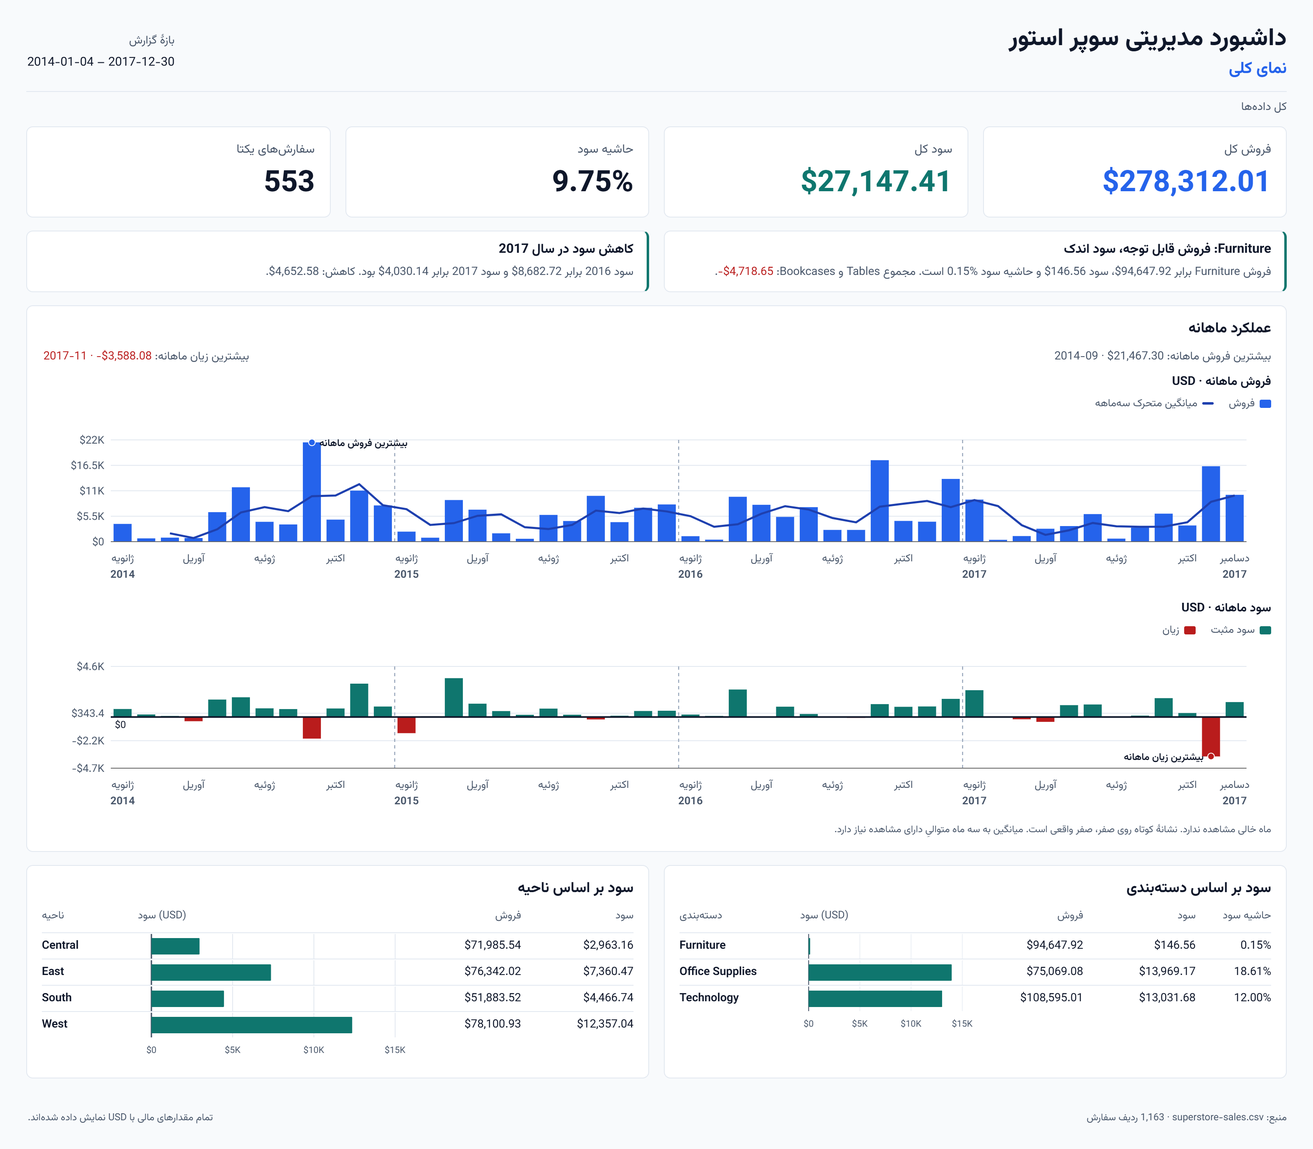
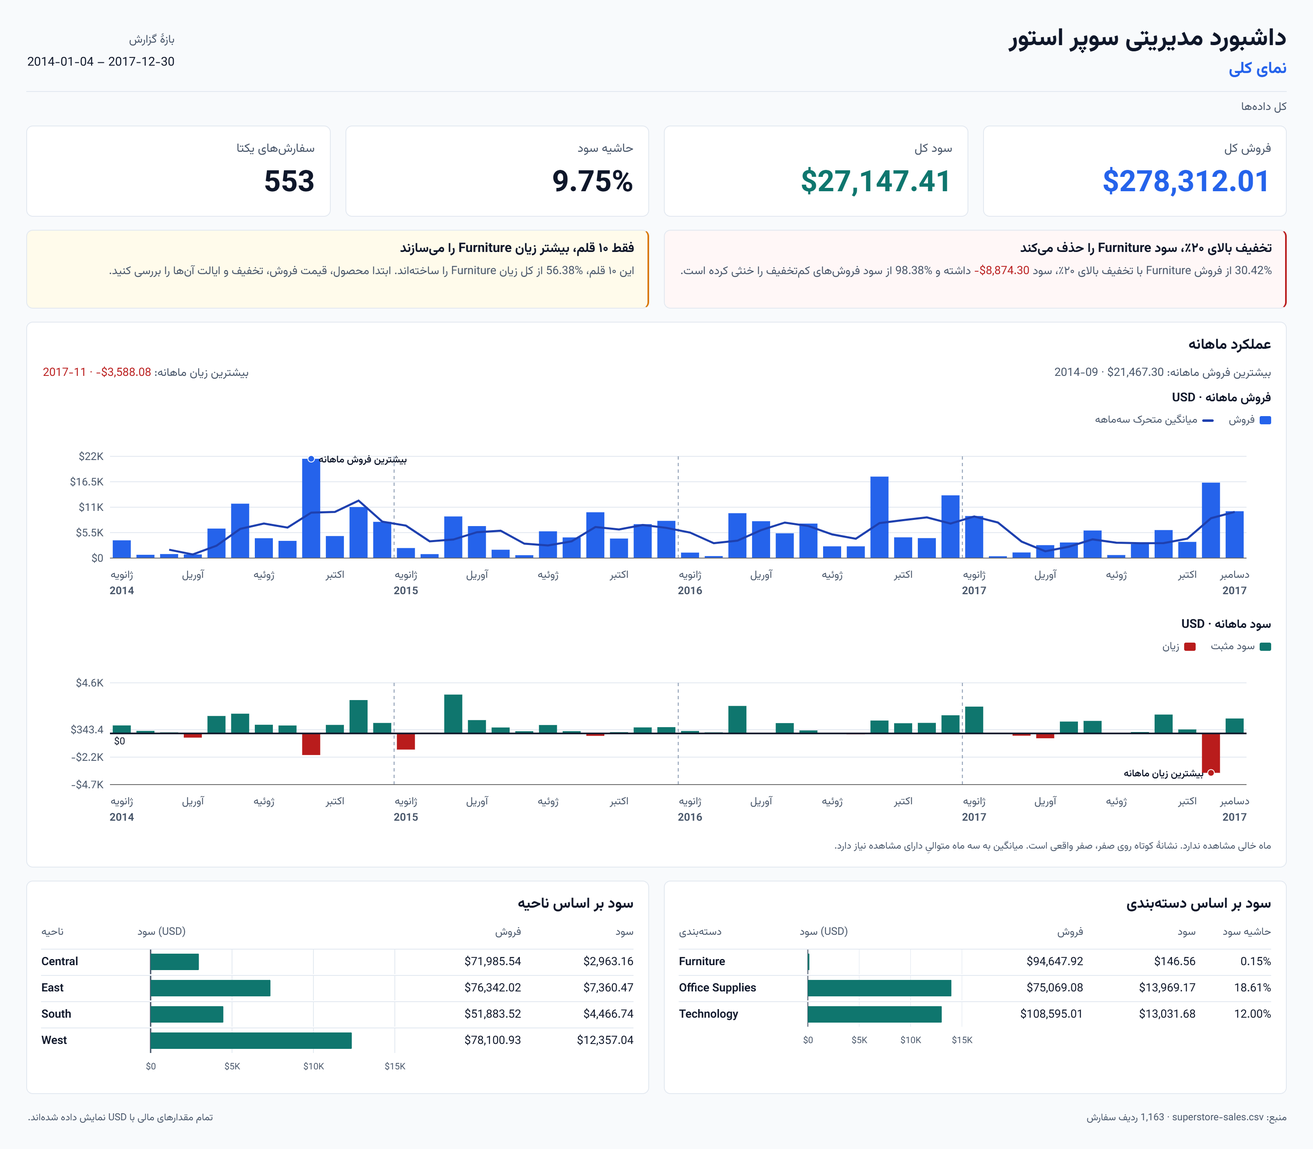
Refine profitability findings and reports

diff --git a/frontend/src/components/dashboard.tsx b/frontend/src/components/dashboard.tsx
@@ -10,7 +10,7 @@ import { resolveMonthlyObservations, type MonthlyObservation } from "@/lib/month
 import { Filters } from "./filters";
 import { Numeric } from "./charts";
 import { Reports } from "./reports";
-import { Geography, Overview, Products, Profitability, type AnnualComparison, type ViewId } from "./views";
+import { Geography, Overview, Products, Profitability, type ViewId } from "./views";
 
 export function Dashboard() {
   const [language,setLanguage]=useState<Language>("fa");
@@ -18,9 +18,7 @@ export function Dashboard() {
   const [metadata,setMetadata]=useState<MetadataResponse|null>(null);
   const [data,setData]=useState<DashboardResponse|null>(null);
   const [draft,setDraft]=useState<DashboardFilters>(freshFilters);
-  const [annual,setAnnual]=useState<AnnualComparison|null>(null);
   const [monthly,setMonthly]=useState<MonthlyObservation[]>([]);
-  const [annualError,setAnnualError]=useState(false);
   const [loading,setLoading]=useState(true);
   const [error,setError]=useState<string|null>(null);
   const [connectionError,setConnectionError]=useState(false);
@@ -47,7 +45,7 @@ export function Dashboard() {
     controller.current?.abort();
     const abort=new AbortController(); controller.current=abort;
     const version=++generation.current;
-    setLoading(true);setError(null);setAnnualError(false);setImages([]);
+    setLoading(true);setError(null);setImages([]);
     objectUrls.current.forEach(url=>URL.revokeObjectURL(url));objectUrls.current=[];
     try {
       if(initial) {
@@ -57,22 +55,9 @@ export function Dashboard() {
       }
       const result=await request(filters,abort.signal);
       const observedMonths=await resolveMonthlyObservations(result,abort.signal,request);
-      let comparison:AnnualComparison|null=null;
-      if(isBaseline(filters)) {
-        try {
-          const [previous,current]=await Promise.all([
-            request({...freshFilters(),years:[2016]},abort.signal),
-            request({...freshFilters(),years:[2017]},abort.signal),
-          ]);
-          comparison={previous:previous.kpis.total_profit,current:current.kpis.total_profit};
-        } catch {
-          if(abort.signal.aborted) return;
-          setAnnualError(true);
-        }
-      }
       // پاسخ قبلی نمیتواند نتیجهٔ یک انتخاب جدید را روی صفحه بازنویسی کند.
       if(version!==generation.current || abort.signal.aborted) return;
-      setData(result);setMonthly(observedMonths);setAnnual(comparison);setConnectionError(false);
+      setData(result);setMonthly(observedMonths);setConnectionError(false);
     } catch(caught) {
       if(abort.signal.aborted || version!==generation.current) return;
       setError(caught instanceof Error?caught.message:"Request failed");setConnectionError(true);setData(null);
@@ -105,7 +90,7 @@ export function Dashboard() {
       <div className="header-actions">
         {connectionError&&<span className="connection-error" role="status" title={t.connectionError}><span/> {t.connection}</span>}
         <div className="language-control" aria-label={t.language}><button disabled={exporting} onClick={()=>{setLanguage("fa");setImages([]);}} className={language==="fa"?"active":""} aria-pressed={language==="fa"}>فارسی</button><button disabled={exporting} onClick={()=>{setLanguage("en");setImages([]);}} className={language==="en"?"active":""} aria-pressed={language==="en"}>English</button></div>
-        <button className="button primary" onClick={()=>void exportReport()} disabled={!data||disabled||annualError}><Download size={18} aria-hidden/>{exporting?t.exporting:t.export}</button>
+        <button className="button primary" onClick={()=>void exportReport()} disabled={!data||disabled}><Download size={18} aria-hidden/>{exporting?t.exporting:t.export}</button>
       </div>
     </header>
     {metadata&&<Filters metadata={metadata} draft={draft} applied={applied} setDraft={setDraft} apply={()=>void load(draft)} reset={()=>{const reset=freshFilters();setDraft(reset);void load(reset,!metadata);}} busy={disabled} t={t}/>}
@@ -113,10 +98,9 @@ export function Dashboard() {
     {exportError&&<p className="error-banner" role="alert">{t.exportFailed}</p>}
     {images.length>0&&<section className="download-panel" aria-label={t.reportReady}><p>{t.exportDone}</p>{images.map(image=><a className="button" key={image.filename} href={image.url} download={image.filename}>{t.download} <bdi dir="ltr">{image.filename}</bdi></a>)}</section>}
     {loading?<div className="loading" role="status"><p>{t.loading}</p><div className="skeleton-kpis">{Array.from({length:4},(_,i)=><div key={i}/>)}</div></div>:error?<div className="error-banner" role="alert"><p>{t.error}</p><button className="button" onClick={()=>void load(draft,true)}><RefreshCw size={16} aria-hidden/>{t.retry}</button></div>:data&&<>
-      {annualError&&<p className="error-banner" role="alert">{t.findingError} <button className="button" onClick={()=>void load(applied)}>{t.retry}</button></p>}
-      {view==="overview"?<Overview data={data} monthly={monthly} baseline={isBaseline(applied)} annual={annual} t={t}/>:view==="products"?<Products data={data} t={t}/>:view==="profitability"?<Profitability data={data} t={t}/>:<Geography key={filterKey(applied)} data={data} baseline={isBaseline(applied)} t={t}/>}
+      {view==="overview"?<Overview data={data} monthly={monthly} baseline={isBaseline(applied)} t={t}/>:view==="products"?<Products data={data} t={t}/>:view==="profitability"?<Profitability data={data} t={t}/>:<Geography key={filterKey(applied)} data={data} baseline={isBaseline(applied)} t={t}/>}
       <footer className="page-footer">{t.source}: <bdi dir="ltr">superstore-sales.csv</bdi> · <Numeric>{data.filtered_rows.toLocaleString("en-US")}</Numeric> {t.observations}</footer>
-      {metadata&&<Reports data={data} monthly={monthly} filters={applied} metadata={metadata} language={language} annual={annual}/>}
+      {metadata&&<Reports data={data} monthly={monthly} filters={applied} metadata={metadata} language={language}/>}
     </>}
   </main>;
 }

diff --git a/frontend/src/components/views.tsx b/frontend/src/components/views.tsx
@@ -7,7 +7,6 @@ import { interpolate, type Messages } from "@/lib/i18n";
 import type { MonthlyObservation } from "@/lib/monthly";
 import { Card, DiscountBandComparison, Empty, FurnitureStateLossTable, Kpis, LossTable, MonthlyCharts, Numeric, ProfitabilityKpis, ProfitBridge, ProfitComparison, StateMap, StateScatter, SubcategoryDiscountChart } from "./charts";
 
-export type AnnualComparison = { previous: number; current: number };
 export type ViewId = "overview" | "products" | "profitability" | "geography";
 
 function FindingText({template,values}:{template:string;values:Record<string,string>}) {
@@ -17,19 +16,19 @@ function FindingText({template,values}:{template:string;values:Record<string,str
   })}</p>;
 }
 
-export function Findings({ data, annual, t }: {data:DashboardResponse;annual:AnnualComparison|null;t:Messages}) {
-  const furniture = data.categories.find(row=>row.category==="Furniture");
-  const tables = data.subcategories.find(row=>row.subcategory==="Tables");
-  const bookcases = data.subcategories.find(row=>row.subcategory==="Bookcases");
+export function Findings({ data, t }: {data:DashboardResponse;t:Messages}) {
+  const lowDiscount=data.profitability.discount_bands.find(row=>row.discount_band==="up_to_20");
+  const highDiscount=data.profitability.discount_bands.find(row=>row.discount_band==="above_20");
+  const erosion=lowDiscount && lowDiscount.profit>0 && highDiscount ? Math.abs(highDiscount.profit)/lowDiscount.profit*100 : null;
   return <div className="findings">
-    {furniture && tables && bookcases && <article><h2>{t.furnitureTitle}</h2><FindingText template={t.furnitureText} values={{sales:formatCurrency(furniture.sales),profit:formatCurrency(furniture.profit),margin:formatPercent(furniture.profit_margin),loss:formatCurrency(tables.profit+bookcases.profit)}}/></article>}
-    {annual && <article><h2>{t.annualTitle}</h2><FindingText template={t.annualText} values={{previous:formatCurrency(annual.previous),current:formatCurrency(annual.current),decline:formatCurrency(annual.previous-annual.current)}}/></article>}
+    {lowDiscount && highDiscount && <article className="finding-alert"><h2>{t.discountRiskTitle}</h2><FindingText template={t.discountRiskText} values={{salesShare:formatPercent(data.profitability.kpis.high_discount_sales_share),highLoss:formatCurrency(highDiscount.profit),erosion:formatPercent(erosion)}}/></article>}
+    {data.profitability.kpis.top_10_loss_share!==null && <article className="finding-focus"><h2>{t.lossFocusTitle}</h2><FindingText template={t.lossFocusText} values={{concentration:formatPercent(data.profitability.kpis.top_10_loss_share)}}/></article>}
   </div>;
 }
 
-export function Overview({data,monthly,baseline,annual,t}:{data:DashboardResponse;monthly:MonthlyObservation[];baseline:boolean;annual:AnnualComparison|null;t:Messages}) {
+export function Overview({data,monthly,baseline,t}:{data:DashboardResponse;monthly:MonthlyObservation[];baseline:boolean;t:Messages}) {
   return <div className="view-content overview-view"><Kpis data={data} t={t} />
-    {baseline && <Findings data={data} annual={annual} t={t}/>}
+    {baseline && <Findings data={data} t={t}/>}
     <Card title={t.monthly}><MonthlyCharts rows={monthly} t={t}/></Card>
     <div className="comparison-grid">
       <Card title={t.categoryProfit}><ProfitComparison rows={data.categories.map(row=>({...row,name:row.category}))} t={t}/></Card>

diff --git a/frontend/src/lib/i18n.ts b/frontend/src/lib/i18n.ts
@@ -21,10 +21,10 @@ const en = {
   january: "Jan", april: "Apr", july: "Jul", october: "Oct", december: "Dec", monthlyScroll: "Scroll horizontally to see every month.",
   chartDirection: "ltr", chartLocale: "en-US",
   association: "These observations do not establish cause.",
-  furnitureTitle: "Furniture: substantial Sales, thin Profit", annualTitle: "Profit decreased in 2017",
-  furnitureText: "Furniture Sales {sales}, Profit {profit}, Margin {margin}. Tables and Bookcases together: {loss}.",
-  annualText: "2016 Profit {previous}; 2017 Profit {current}. Decrease: {decline}.",
-  findingError: "The annual comparison is unavailable.", baseline: "Full-dataset findings",
+  discountRiskTitle: "Discounts above 20% erase Furniture profit",
+  discountRiskText: "The {salesShare} of Furniture Sales above 20% Discount had {highLoss} Profit and erased {erosion} of lower-discount Profit.",
+  lossFocusTitle: "Only 10 order lines drive most Furniture loss",
+  lossFocusText: "These 10 lines account for {concentration} of total Furniture loss. Review their product, selling price, Discount, and State first.",
   mapTitle: "US States", mapProfit: "Profit by State", mapSales: "Sales by State",
   scatter: "Sales versus Profit by State", salesAxis: "Sales (USD)", profitAxis: "Profit (USD)",
   loss: "Loss", positiveProfit: "Positive Profit", noObservations: "No data", measuredZero: "Measured zero",
@@ -67,10 +67,10 @@ const fa: Dictionary = {
   january: "ژانویه", april: "آوریل", july: "ژوئیه", october: "اکتبر", december: "دسامبر", monthlyScroll: "برای دیدن همهٔ ماهها، نمودار را افقی حرکت دهید.",
   chartDirection: "rtl", chartLocale: "fa-IR-u-ca-gregory-nu-latn",
   association: "این مشاهدهها علت را ثابت نمیکنند.",
-  furnitureTitle: "Furniture: فروش قابل توجه، سود اندک", annualTitle: "کاهش سود در سال 2017",
-  furnitureText: "فروش Furniture برابر {sales}، سود {profit} و حاشیه سود {margin} است. مجموع Tables و Bookcases: {loss}.",
-  annualText: "سود 2016 برابر {previous} و سود 2017 برابر {current} بود. کاهش: {decline}.",
-  findingError: "مقایسهٔ سالانه در دسترس نیست.", baseline: "یافتههای کل دادهها",
+  discountRiskTitle: "تخفیف بالای ۲۰٪، سود Furniture را حذف میکند",
+  discountRiskText: "{salesShare} از فروش Furniture با تخفیف بالای ۲۰٪، سود {highLoss} داشته و {erosion} از سود فروشهای کمتخفیف را خنثی کرده است.",
+  lossFocusTitle: "فقط ۱۰ قلم، بیشتر زیان Furniture را میسازند",
+  lossFocusText: "این ۱۰ قلم، {concentration} از کل زیان Furniture را ساختهاند. ابتدا محصول، قیمت فروش، تخفیف و ایالت آنها را بررسی کنید.",
   mapTitle: "ایالتهای آمریکا", mapProfit: "سود بر اساس ایالت", mapSales: "فروش بر اساس ایالت",
   scatter: "فروش در برابر سود ایالتها", salesAxis: "فروش (USD)", profitAxis: "سود (USD)",
   loss: "زیان", positiveProfit: "سود مثبت", noObservations: "بدون داده", measuredZero: "صفر ثبتشده",

diff --git a/frontend/src/components/reports.tsx b/frontend/src/components/reports.tsx
@@ -4,21 +4,21 @@ import type { DashboardFilters, DashboardResponse, Language, MetadataResponse } 
 import { getMessages } from "@/lib/i18n";
 import { filterSummary, isBaseline, reportingPeriod } from "@/lib/presentation";
 import { formatNumber } from "@/lib/format";
-import { Geography, Overview, Products, Profitability, type AnnualComparison, type ViewId } from "./views";
+import { Geography, Overview, Products, Profitability, type ViewId } from "./views";
 import { Numeric } from "./charts";
 import type { MonthlyObservation } from "@/lib/monthly";
 
 export const reportViews: ViewId[] = ["overview","products","profitability","geography"];
 export const filenames = ["01-overview.png","02-products.png","03-profitability.png","04-geography.png"];
 
-export function Reports({data,monthly,filters,metadata,language,annual}:{data:DashboardResponse;monthly:MonthlyObservation[];filters:DashboardFilters;metadata:MetadataResponse;language:Language;annual:AnnualComparison|null}) {
+export function Reports({data,monthly,filters,metadata,language}:{data:DashboardResponse;monthly:MonthlyObservation[];filters:DashboardFilters;metadata:MetadataResponse;language:Language}) {
   const t=getMessages(language);
   const baseline=isBaseline(filters);
   return <div className="report-stage" aria-hidden="true" inert>
     {reportViews.map(view=><article className={`report-canvas report-${view}`} data-report={view} key={view} dir={language==="fa"?"rtl":"ltr"} lang={language}>
       <header className="report-header"><div><h1>{t.title}</h1><h2>{t[view]}</h2></div><div><p>{t.period}</p><Numeric>{reportingPeriod(filters,metadata)}</Numeric></div></header>
       <div className="report-filter-summary">{filterSummary(filters,t)}</div>
-      {view==="overview"?<Overview data={data} monthly={monthly} baseline={baseline} annual={annual} t={t}/>:view==="products"?<Products data={data} t={t}/>:view==="profitability"?<Profitability data={data} t={t}/>:<Geography data={data} baseline={baseline} t={t} report/>}
+      {view==="overview"?<Overview data={data} monthly={monthly} baseline={baseline} t={t}/>:view==="products"?<Products data={data} t={t}/>:view==="profitability"?<Profitability data={data} t={t}/>:<Geography data={data} baseline={baseline} t={t} report/>}
       <footer className="report-footer"><span>{t.source}: <bdi dir="ltr">superstore-sales.csv</bdi> · <Numeric>{formatNumber(data.filtered_rows)}</Numeric> {t.observations}</span><span>{view==="geography"?t.mapSource:t.financialNote}</span></footer>
     </article>)}
   </div>;

diff --git a/frontend/src/app/globals.css b/frontend/src/app/globals.css
@@ -78,6 +78,8 @@ summary::-webkit-details-marker { display:none; }
 .kpi strong { font-size:34px; font-weight:750; line-height:1.3; display:block; }
 .findings { display:grid; grid-template-columns:1fr 1fr; gap:18px; }
 .findings article { padding:14px 18px; background:var(--card); border:1px solid var(--border); border-inline-start:3px solid var(--profit); border-radius:8px; }
+.findings article.finding-alert { background:#FFF7F7; border-inline-start-color:var(--loss); }
+.findings article.finding-focus { background:#FFFBEB; border-inline-start-color:#D97706; }
 .findings h2 { font-size:16px; margin:0 0 5px; }
 .findings p { margin:0; font-size:14px; color:var(--muted); }
 .monthly-stack { display:grid; gap:12px; }

diff --git a/README.md b/README.md
@@ -1,59 +1,84 @@
 # Superstore BI Dashboard
 
-Local bilingual Business Intelligence dashboard for the Superstore CSV dataset.
+**Inspect sales. Find losses. Compare performance.**
 
-## Backend setup
+Built for an **AI Agent Bootcamp assignment**, this project connects CSV analysis, a FastAPI backend, and an interactive dashboard in English and Persian.
 
-Create and use the project virtual environment from PowerShell with Python 3.11:
+**Next.js · TypeScript · Tailwind CSS · FastAPI · pandas · Recharts**
 
-```powershell
-uv venv --python 3.11 .venv
-.\.venv\Scripts\Activate.ps1
-python -m pip install -r backend\requirements-dev.txt
-python -m ipykernel install --prefix .\.venv --name superstore-dashboard --display-name "Python (Superstore .venv)"
+![English overview report with sales, profit, monthly trends, and category comparisons](reports/en/01-overview.png)
+
+[Product report](reports/en/02-products.png) · [Profitability report](reports/en/03-profitability.png) · [Geography report](reports/en/04-geography.png) · [Analysis notebook](analysis.ipynb)
+
+## What you can do
+
+| View | Purpose |
+| --- | --- |
+| **Overview** | Inspect sales, profit, margin, orders, and monthly trends. |
+| **Products** | Compare 17 subcategories and find products with losses. |
+| **Profitability** | Compare furniture profit by discount band, subcategory, and state. |
+| **Geography** | Inspect the US profit map and compare state sales with profit. |
+
+- Filter by date, year, region, segment, category, subcategory, and state.
+- Switch between English and Persian.
+- Export all four views as PNG reports with the applied filters and selected language.
+
+## One finding from the data
+
+Furniture has **$94,647.92 in sales**, but only **$146.56 in profit**: a **0.15% margin**. The Profitability view shows how profit differs across discount bands and products.
+
+The included dataset has **1,163 order line items** and **553 distinct orders**, from **2014 to 2017**. These values describe this CSV.
+
+## How it works
+
+```text
+Superstore CSV → pandas validation and analysis → FastAPI → Next.js dashboard → PNG reports
 ```
 
-For the exact Python 3.11-tested dependency set, use `python -m pip install -r backend\requirements-lock.txt`.
+The backend calculates dashboard values from the same filtered data. It checks CSV columns, values, and dates at startup. The frontend distinguishes missing monthly observations from measured zero values. Backend tests check totals, filters, and profit calculations. Frontend tests check monthly calculations and data requests.
 
-Run the API from the project root:
+## Run locally
 
-```powershell
-python -m uvicorn backend.app.main:app --reload --host 127.0.0.1 --port 8000
-```
+Use **Python 3.11**, **Node.js 24**, and **npm**. Run these commands in PowerShell from the project root.
 
-Open the API at `http://127.0.0.1:8000`. Open interactive documentation at `http://127.0.0.1:8000/docs`.
-
-Run the automated tests:
+**1. Start the backend.**
 
 ```powershell
-python -m pytest backend\tests -q
+python -m venv .venv
+.\.venv\Scripts\python.exe -m pip install -r backend\requirements-dev.txt
+.\.venv\Scripts\python.exe -m uvicorn backend.app.main:app --reload --host 127.0.0.1 --port 8000
 ```
 
-## Frontend setup
-
-The Next.js dashboard is in `frontend`. It reads dashboard data only from the FastAPI API through a local Next.js proxy.
+**2. Start the frontend in a second terminal.**
 
 ```powershell
 cd frontend
-npm install
+npm ci
 npm run build
 npm run start -- --port 3000
 ```
 
-Open `http://127.0.0.1:3000`. Set `BACKEND_API_URL` in `frontend/.env.local` only when the backend does not use its default address. See `frontend/README.md` for details.
+Open the [dashboard](http://127.0.0.1:3000) or the [API documentation](http://127.0.0.1:8000/docs).
 
-The dashboard has Overview, Products, Profitability, and Geography views. Export report creates four PNG images from the applied filter state. Verified baseline images are in `reports/`; English copies are in `reports/en/`.
+## Check the project
 
-## Configuration
+Run backend tests from the project root:
 
-The backend reads `dataset/superstore-sales.csv` by default. Set `SUPERSTORE_DATASET_PATH` to use another project-relative or absolute CSV path.
+```powershell
+.\.venv\Scripts\python.exe -m pytest backend\tests -q
+```
 
-The CSV is read once at application startup. The backend validates required columns, required values, numeric fields, ISO dates, and shipping dates. It keeps repeated `Order ID` values because each row is one order line item.
+Run frontend checks from `frontend`:
 
-## API
+```powershell
+npm run lint
+npm run typecheck
+npm run test
+npm run build
+```
 
-- `GET /api/v1/health`
-- `GET /api/v1/metadata`
-- `POST /api/v1/dashboard`
+## Project files
 
-`POST /api/v1/dashboard` accepts optional date, year, region, segment, category, subcategory, and state filters. Values in one filter use OR logic. Different filters use AND logic.
+[Analysis notebook](analysis.ipynb) · [Backend](backend/app/) · [Frontend guide](frontend/README.md) · [Report images](reports/)
+
+The default data file is `dataset/superstore-sales.csv`. Set `SUPERSTORE_DATASET_PATH` to use another CSV with the same schema. Set `BACKEND_API_URL` in `frontend/.env.local` to change the backend address. Use [requirements-lock.txt](backend/requirements-lock.txt) for the exact Python dependency set.

diff --git a/reports/README.md b/reports/README.md
@@ -11,7 +11,7 @@ The files in this folder use Persian. English copies are in `en/`.
 
 The reporting period is 2014-01-04 to 2017-12-30. The source is `superstore-sales.csv`. There are 1,163 line items, 553 distinct orders, and 41 observed States / DC.
 
-Overview canvas: 1600 × 1400 logical pixels; PNG resolution: 3200 × 2800. Products and Geography remain 1600 × 1200 (3200 × 2400). The extra Overview height keeps both monthly charts and their labels readable.
+Overview canvas: 1600 × 1400 logical pixels; PNG resolution: 3200 × 2800. Profitability uses 1600 × 1488 (3200 × 2976). Products and Geography use 1600 × 1200 (3200 × 2400). The extra height keeps all charts and labels readable.
 
 Only observed States have business values. Geographic boundaries include 50 States and DC. Grey means No data; it does not mean zero.
 
@@ -21,8 +21,8 @@ The baseline peak Sales month is 2014-09 ($21,467.30). The largest loss month is
 
 ## Verification
 
-Frontend lint, TypeScript checks, and the production build passed. The 24 existing backend tests passed. Source hashes for the CSV, notebook, backend code, and backend tests did not change.
+Frontend lint, TypeScript checks, and the production build passed. All 26 backend tests and 11 frontend tests passed.
 
-Browser checks covered all three views in both languages, the 17 product bars and 41 State points, Year + Region filters, pending changes, Reset, an empty result, date validation, a network error and Retry, State search and sorting, ten-row pagination, keyboard controls, and mobile/tablet layouts.
+Browser checks covered all four views in both languages. They also covered the 17 product bars, 41 State points, the Profitability view, Year and Region filters, Reset, report export, keyboard controls, and mobile layouts.
 
 Each final PNG was opened and reviewed. Exact totals, losses, signs, legends, State coverage, labels, and source notes are visible without tooltips. Sales and Profit are near the top. Loss-making products are listed first. High-sales States with losses are labelled and shown in the loss table. A ten-second reading time remains a design target; it was not measured in a user study.
